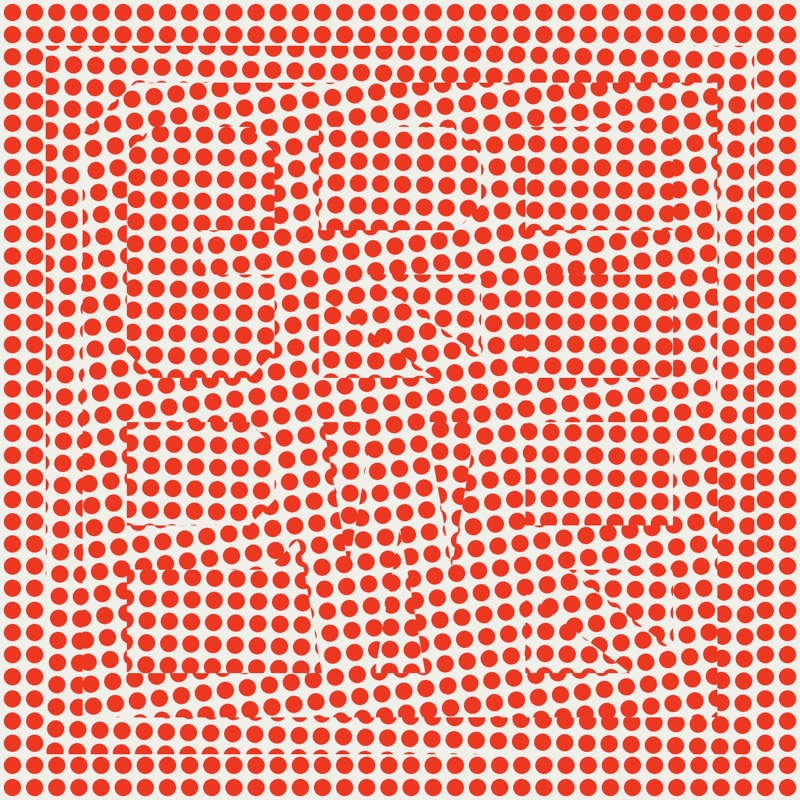
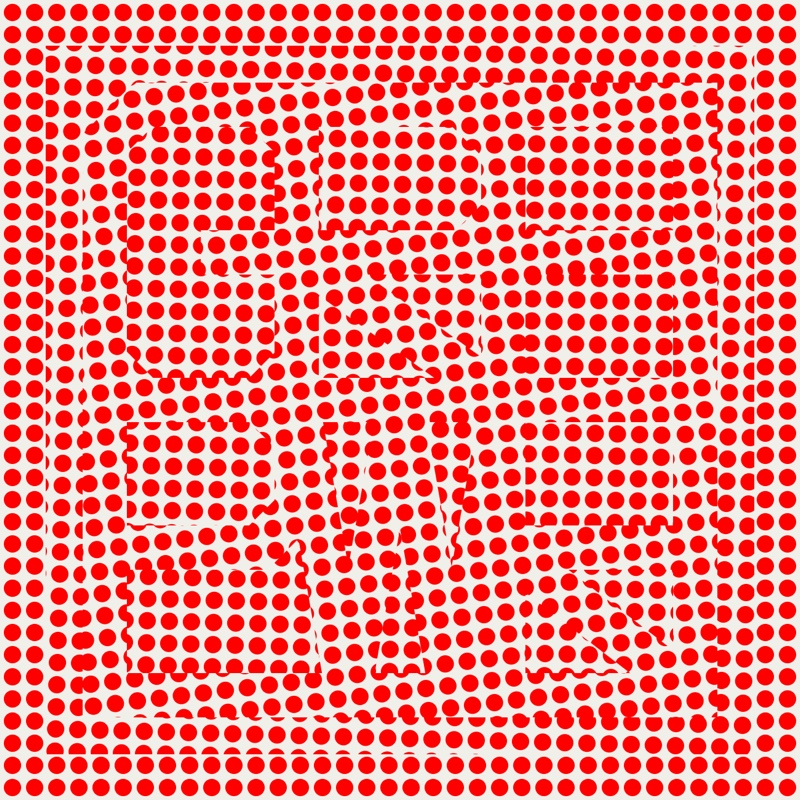
dots: a click changes the colour — red, blue, black, purple (grbpwr.com's palette)

diff --git a/src/dots/main.ts b/src/dots/main.ts
@@ -2,7 +2,8 @@
 // of red dots on paper, and the logo cut out of it. Inside the strokes the grid is turned and
 // shifted a little; inside the mark's square, around the strokes, it is turned the other way. The
 // mark shows only where the grids disagree: dots sliced along the edges, rows that no longer meet.
-// A finger or the cursor slides and turns the inner grids; left alone they drift.
+// A finger or the cursor slides and turns the inner grids; left alone they drift. A click or a tap
+// changes the colour: red, blue, black, purple — the brand's palette.
 //
 // One fragment shader. The mark is the exact signed distance to its bars, and dots are sliced by it
 // with a one-pixel antialiased edge.
@@ -13,6 +14,7 @@ import { Mesh } from 'three/src/objects/Mesh'
 import { PlaneGeometry } from 'three/src/geometries/PlaneGeometry'
 import { ShaderMaterial } from 'three/src/materials/ShaderMaterial'
 import { Vector2 } from 'three/src/math/Vector2'
+import { Vector3 } from 'three/src/math/Vector3'
 import { Vector4 } from 'three/src/math/Vector4'
 import { LOGO_STROKE } from '../core/logo-path'
 import { logoBars } from '../core/logo-bars'
@@ -38,6 +40,7 @@ const uniforms = {
   ppu: { value: 1 }, // device px per logo unit
   inner: { value: new Vector4() }, // strokes' grid: offset x, y, angle, —
   frame: { value: new Vector4() }, // square's grid: offset x, y, angle, —
+  ink: { value: new Vector3() },
   bars: { value: bars.map((b) => b.c) },
   halves: { value: bars.map((b) => b.h) },
 }
@@ -53,11 +56,11 @@ const material = new ShaderMaterial({
     uniform float ppu;
     uniform vec4 inner;
     uniform vec4 frame;
+    uniform vec3 ink;
     uniform vec4 bars[NB];
     uniform vec2 halves[NB];
 
     const vec3 PAPER = vec3(0.945, 0.937, 0.918);
-    const vec3 RED = vec3(0.925, 0.215, 0.13);
 
     float logoSD(vec2 p) {
       float d = 1e9;
@@ -93,11 +96,11 @@ const material = new ShaderMaterial({
       float sq = clamp(0.5 - boxSD(p, 258.0 + 30.0) / px, 0.0, 1.0);   // the mark's square, with a margin
       float mark = clamp(0.5 - logoSD(p) / px, 0.0, 1.0);             // the strokes
 
-      float ink = outer;
-      if (sq > 0.0) ink = mix(ink, grid(p, frame.xyz, px), sq);
-      if (mark > 0.0) ink = mix(ink, grid(p, inner.xyz, px), mark);
+      float cover = outer;
+      if (sq > 0.0) cover = mix(cover, grid(p, frame.xyz, px), sq);
+      if (mark > 0.0) cover = mix(cover, grid(p, inner.xyz, px), mark);
 
-      gl_FragColor = vec4(mix(PAPER, RED, ink), 1.0);
+      gl_FragColor = vec4(mix(PAPER, ink, cover), 1.0);
     }
   `,
 })
@@ -116,6 +119,34 @@ function resize() {
   // the square with its margin fills most of the short side, like the print's rectangles
   const side = Math.min(w <= 768 ? 0.86 * w : 0.5 * w, 0.72 * h)
   uniforms.ppu.value = (side * dpr) / (516 + 60)
+}
+
+// --- colour: a click takes the next one from the brand's palette (grbpwr.com's own colours) ------------------
+const PALETTE = [0xff0000, 0x311eee, 0x000000, 0x501089] // red, blue, black, purple
+const rgb = (hex: number) => [((hex >> 16) & 255) / 255, ((hex >> 8) & 255) / 255, (hex & 255) / 255]
+let colour = 0
+let from = rgb(PALETTE[0])
+let changed = -1e9
+uniforms.ink.value.set(from[0], from[1], from[2])
+
+let down: { x: number; y: number } | null = null
+canvas.addEventListener('pointerdown', (e) => (down = { x: e.clientX, y: e.clientY }))
+canvas.addEventListener('pointerup', (e) => {
+  // a click or a tap, not the end of a swipe
+  if (down && Math.hypot(e.clientX - down.x, e.clientY - down.y) < 8) {
+    const c = uniforms.ink.value
+    from = [c.x, c.y, c.z]
+    colour = (colour + 1) % PALETTE.length
+    changed = performance.now()
+  }
+  down = null
+})
+
+function tint(t: number) {
+  const k = Math.min(1, (t - changed) / 350)
+  const e = k * k * (3 - 2 * k)
+  const to = rgb(PALETTE[colour])
+  uniforms.ink.value.set(from[0] + (to[0] - from[0]) * e, from[1] + (to[1] - from[1]) * e, from[2] + (to[2] - from[2]) * e)
 }
 
 // --- input -------------------------------------------------------------------------------------------------
@@ -150,6 +181,7 @@ function frame(t: number) {
   // strokes: slide up to a pitch and a half, turn up to ±9°; the square: less, and the other way
   uniforms.inner.value.set(now.x * PITCH * 1.5, -now.y * PITCH * 1.5, 0.06 + now.x * 0.1, 0)
   uniforms.frame.value.set(-now.x * PITCH * 0.6, now.y * PITCH * 0.6, -0.05 - now.y * 0.06, 0)
+  tint(t)
   renderer.render(scene, camera)
   requestAnimationFrame(frame)
 }

diff --git a/dist/assets/index.43ccb5a7.js b/dist/assets/index.43ccb5a7.js
@@ -1,0 +1,54 @@
+import"./modulepreload-polyfill.b7f2da20.js";import{n as v,j as g,W as z,S as C,O as T,V as H,g as I,M as L,e as B}from"./vendor.0b7086df.js";import{b as R}from"./logo-path.248ebb5a.js";import{l as A}from"./logo-bars.36bf556b.js";const c=18,u=A().map(e=>{const n=e.ax-300,t=300-e.ay,o=e.bx-300,d=300-e.by,p=Math.hypot(o-n,d-t);return{c:new v((n+o)/2,(t+d)/2,(o-n)/p,(d-t)/p),h:new g(p/2,R/2)}}),m=document.getElementById("dots"),f=new z({canvas:m,antialias:!1}),y=new C,F=new T(-1,1,1,-1,0,1),r={resolution:{value:new g},ppu:{value:1},inner:{value:new v},frame:{value:new v},ink:{value:new H},bars:{value:u.map(e=>e.c)},halves:{value:u.map(e=>e.h)}},O=new I({uniforms:r,defines:{NB:u.length,PITCH:c.toFixed(1)},vertexShader:`
+    void main() { gl_Position = vec4(position.xy, 0.0, 1.0); }
+  `,fragmentShader:`
+    uniform vec2 resolution;
+    uniform float ppu;
+    uniform vec4 inner;
+    uniform vec4 frame;
+    uniform vec3 ink;
+    uniform vec4 bars[NB];
+    uniform vec2 halves[NB];
+
+    const vec3 PAPER = vec3(0.945, 0.937, 0.918);
+
+    float logoSD(vec2 p) {
+      float d = 1e9;
+      for (int i = 0; i < NB; i++) {
+        vec4 b = bars[i];
+        vec2 r = p - b.xy;
+        vec2 l = vec2(dot(r, b.zw), dot(r, vec2(-b.w, b.z)));
+        vec2 q = abs(l) - halves[i];
+        d = min(d, length(max(q, 0.0)) + min(max(q.x, q.y), 0.0));
+      }
+      return d;
+    }
+    float boxSD(vec2 p, float h) {
+      vec2 q = abs(p) - vec2(h);
+      return length(max(q, 0.0)) + min(max(q.x, q.y), 0.0);
+    }
+
+    // coverage of a dot grid at p: pitch PITCH, dots 0.78 of the pitch across, turned and shifted
+    float grid(vec2 p, vec3 g, float px) {
+      float c = cos(g.z);
+      float s = sin(g.z);
+      vec2 q = vec2(c * p.x + s * p.y, -s * p.x + c * p.y) + g.xy;
+      vec2 cell = mod(q, PITCH) - 0.5 * PITCH;
+      float d = length(cell) - 0.39 * PITCH;
+      return clamp(0.5 - d / px, 0.0, 1.0);
+    }
+
+    void main() {
+      vec2 p = (gl_FragCoord.xy - 0.5 * resolution) / ppu;
+      float px = 1.0 / ppu; // one device pixel in logo units
+
+      float outer = grid(p, vec3(0.0), px);
+      float sq = clamp(0.5 - boxSD(p, 258.0 + 30.0) / px, 0.0, 1.0);   // the mark's square, with a margin
+      float mark = clamp(0.5 - logoSD(p) / px, 0.0, 1.0);             // the strokes
+
+      float cover = outer;
+      if (sq > 0.0) cover = mix(cover, grid(p, frame.xyz, px), sq);
+      if (mark > 0.0) cover = mix(cover, grid(p, inner.xyz, px), mark);
+
+      gl_FragColor = vec4(mix(PAPER, ink, cover), 1.0);
+    }
+  `}),b=new L(new B(2,2),O);b.frustumCulled=!1;y.add(b);function q(){const e=window.innerWidth,n=window.innerHeight,t=Math.min(window.devicePixelRatio||1,2);f.setPixelRatio(t),f.setSize(e,n,!1),r.resolution.value.set(e*t,n*t);const o=Math.min(e<=768?.86*e:.5*e,.72*n);r.ppu.value=o*t/(516+60)}const h=[16711680,3219182,0,5247113],P=e=>[(e>>16&255)/255,(e>>8&255)/255,(e&255)/255];let x=0,i=P(h[0]),k=-1e9;r.ink.value.set(i[0],i[1],i[2]);let l=null;m.addEventListener("pointerdown",e=>l={x:e.clientX,y:e.clientY});m.addEventListener("pointerup",e=>{if(l&&Math.hypot(e.clientX-l.x,e.clientY-l.y)<8){const n=r.ink.value;i=[n.x,n.y,n.z],x=(x+1)%h.length,k=performance.now()}l=null});function D(e){const n=Math.min(1,(e-k)/350),t=n*n*(3-2*n),o=P(h[x]);r.ink.value.set(i[0]+(o[0]-i[0])*t,i[1]+(o[1]-i[1])*t,i[2]+(o[2]-i[2])*t)}const s={x:0,y:0},a={x:0,y:0};let M=-1e9;function E(e){s.x=e.clientX/window.innerWidth*2-1,s.y=e.clientY/window.innerHeight*2-1,M=performance.now()}m.addEventListener("pointerdown",E);m.addEventListener("pointermove",e=>{(e.pointerType==="mouse"||e.buttons)&&E(e)});let w=performance.now();function S(e){const n=Math.min(.05,(e-w)/1e3);if(w=e,e-M>2500){const o=e/1e3;s.x=Math.sin(o*.23)*.6,s.y=Math.sin(o*.17+1.3)*.5}const t=1-Math.exp(-n*5);a.x+=(s.x-a.x)*t,a.y+=(s.y-a.y)*t,r.inner.value.set(a.x*c*1.5,-a.y*c*1.5,.06+a.x*.1,0),r.frame.value.set(-a.x*c*.6,a.y*c*.6,-.05-a.y*.06,0),D(e),f.render(y,F),requestAnimationFrame(S)}window.addEventListener("resize",q);q();requestAnimationFrame(S);

diff --git a/dist/dots/index.html b/dist/dots/index.html
@@ -5,7 +5,7 @@
     <meta charset="UTF-8" />
     <meta name="viewport" content="width=device-width, initial-scale=1.0, user-scalable=no" />
     <title>dots — grbpwr</title>
-  <script type="module" crossorigin src="/assets/index.b1faf750.js"></script>
+  <script type="module" crossorigin src="/assets/index.43ccb5a7.js"></script>
   <link rel="modulepreload" href="/assets/modulepreload-polyfill.b7f2da20.js">
   <link rel="modulepreload" href="/assets/vendor.0b7086df.js">
   <link rel="modulepreload" href="/assets/logo-path.248ebb5a.js">
